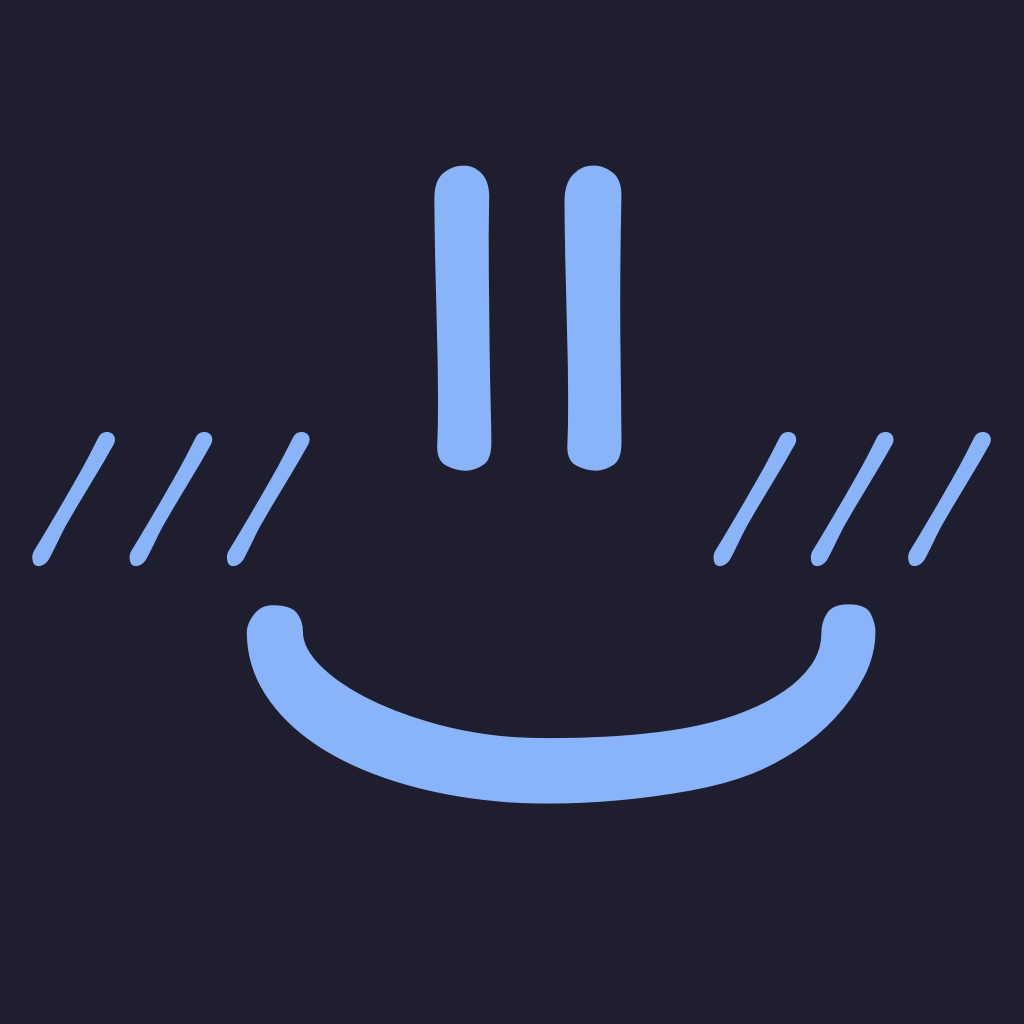
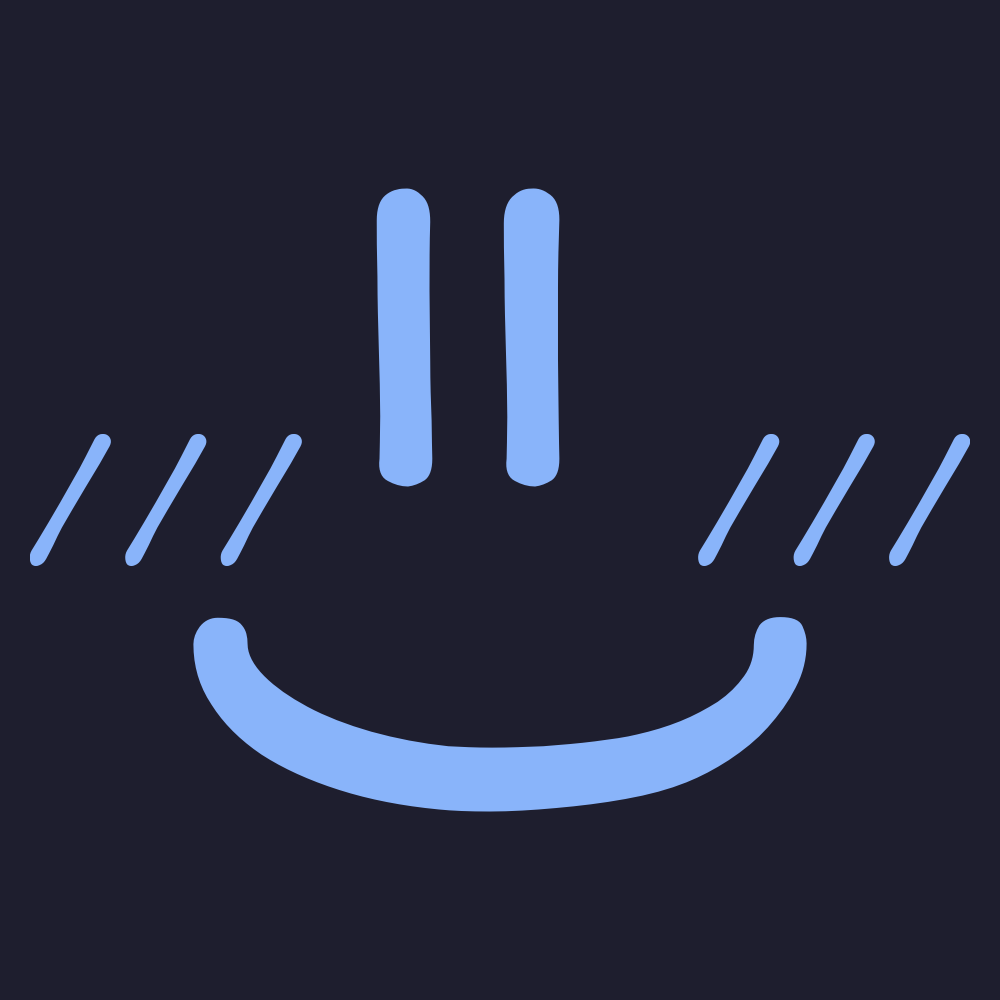
update

diff --git a/index.html b/index.html
@@ -5,7 +5,7 @@
   <meta charset="UTF-8" />
   <meta name="viewport" content="width=device-width, initial-scale=1.0" />
   <title>Desyatkas</title>
-  <link rel="icon" type="image/png" href="profile_picture.png">
+  <link rel="icon" type="image/png" href="profile_picture_round.png">
   <link rel="preconnect" href="https://fonts.googleapis.com" />
   <link rel="preconnect" href="https://fonts.gstatic.com" crossorigin />
   <link rel="stylesheet" href="https://fonts.googleapis.com/css2?family=JetBrains+Mono:wght@300;400;600;800&display=swap" />
